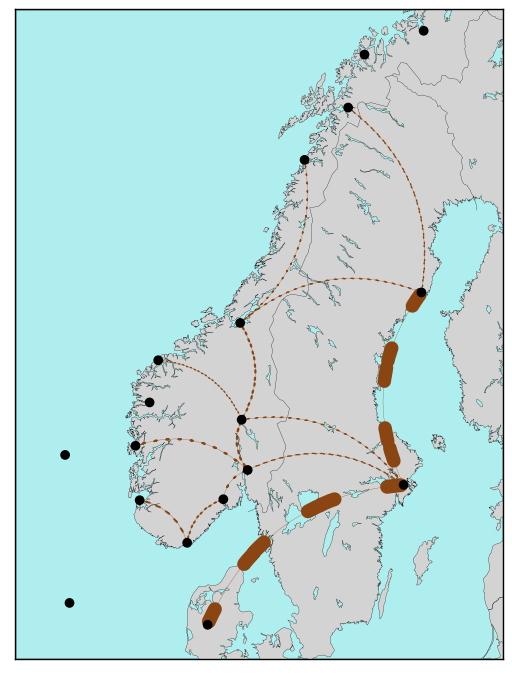
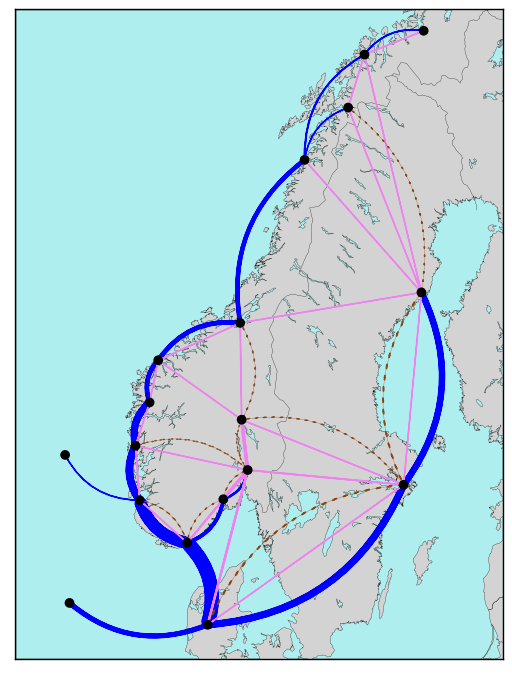
Trd-Bodø check

diff --git a/_plot_flow_on_map.py b/_plot_flow_on_map.py
@@ -445,10 +445,10 @@ with open(r'Data/Output/'+analyses_type + "_" + scenario_type + ".pickle", 'rb')
 # 1. Make flow plots
 
 # Choose settings
-mode_variant = "rail" # ["road", "sea", "rail", "all", "total"]
+mode_variant = "all" # ["road", "sea", "rail", "all", "total"]
 sel_scenario = "BBB"
 sel_time_period = 2023 #
-sel_product = "all" # "Dry bulk" # any product group or "all"
+sel_product = "Container (slow)" # "Dry bulk" # any product group or "all"
 #Dry bulk, Liquid bulk, Container (fast), Container (slow), Break bulk (fast), Break bulk (slow), Neo bulk
 
 plot_overseas = True

diff --git a/kladblok.py b/kladblok.py
@@ -14,6 +14,17 @@ with open(r'Data//base_data//'+scenarios+'.pickle', 'rb') as data_file:
     base_data = pickle.load(data_file)
 
 
+
+#------------------------------------------
+
+#Ingen veitransport fra Trondheim til Bodø (merkelig nok).
+output.x_flow[(output.x_flow['from']=='Trondheim')&
+              (output.x_flow['to']=='Bodø')&
+              (output.x_flow['time_period']==2023)&
+              (output.x_flow['scenario']=='BBB')]
+
+#-----------------------------------------
+
 #DICTIONARY_TO_PD_DATAFRAME!!
 
 def dict_to_pd_df(dict,col_names):
